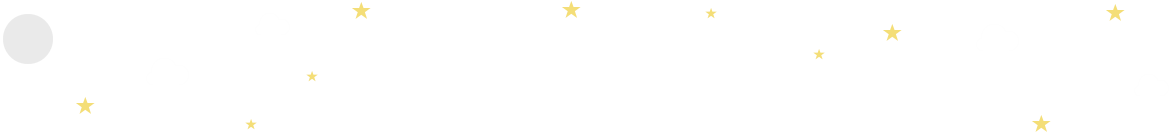
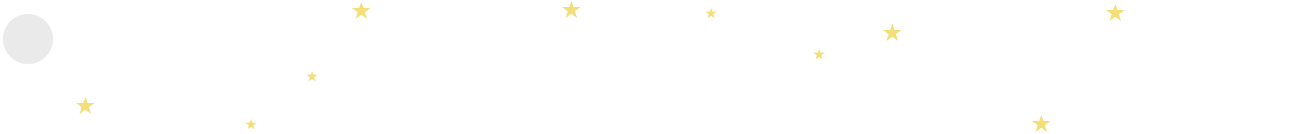
Centered header background image

diff --git a/design/css/style.css b/design/css/style.css
@@ -36,7 +36,7 @@ a {
 
 #site-header {
   padding: 45px 0 75px;
-  background: #95c55f url("../img/background.png") no-repeat 30px 30px;
+  background: #95c55f url("../img/background.png") no-repeat center 30px;
 }
 
 #site-header img {
@@ -261,7 +261,7 @@ em {
 /*
 
 #site-header {
-  background: #00425a url("../img/background-night.png") no-repeat 30px 24px;
+  background: #00425a url("../img/background-night.png") no-repeat center 24px;
 }
 
 #site-header a {
